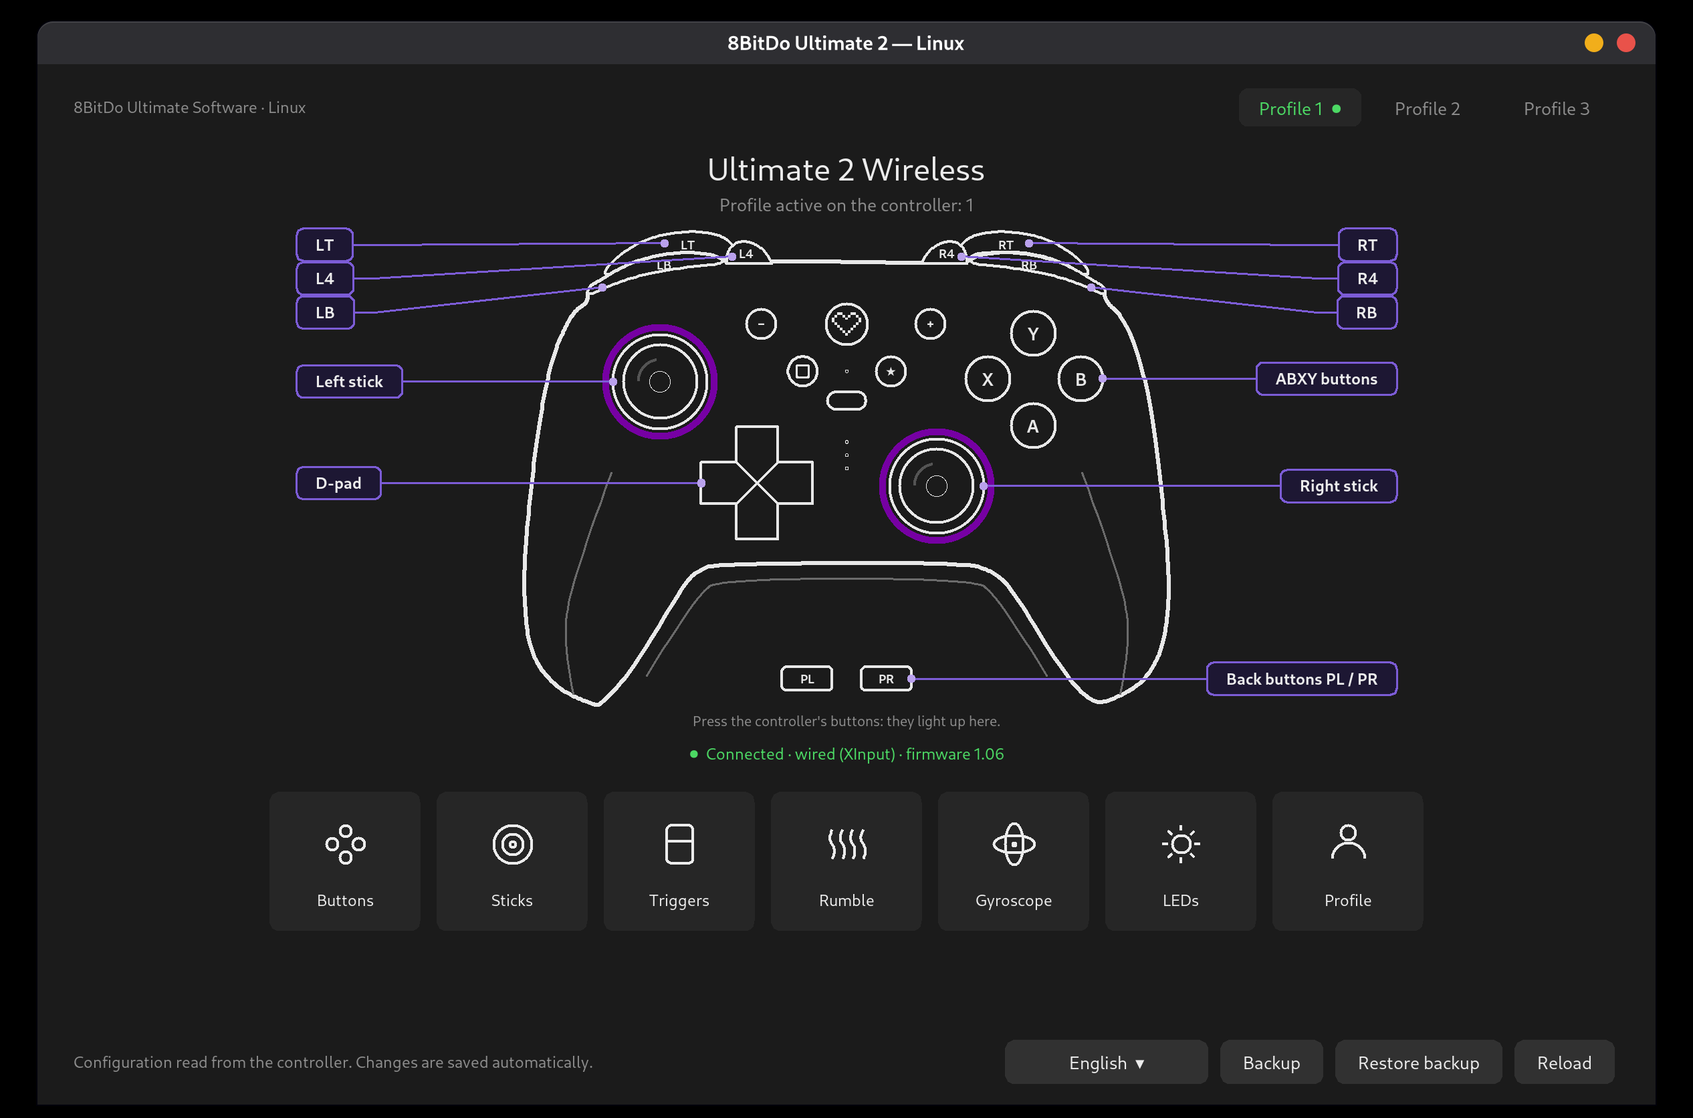
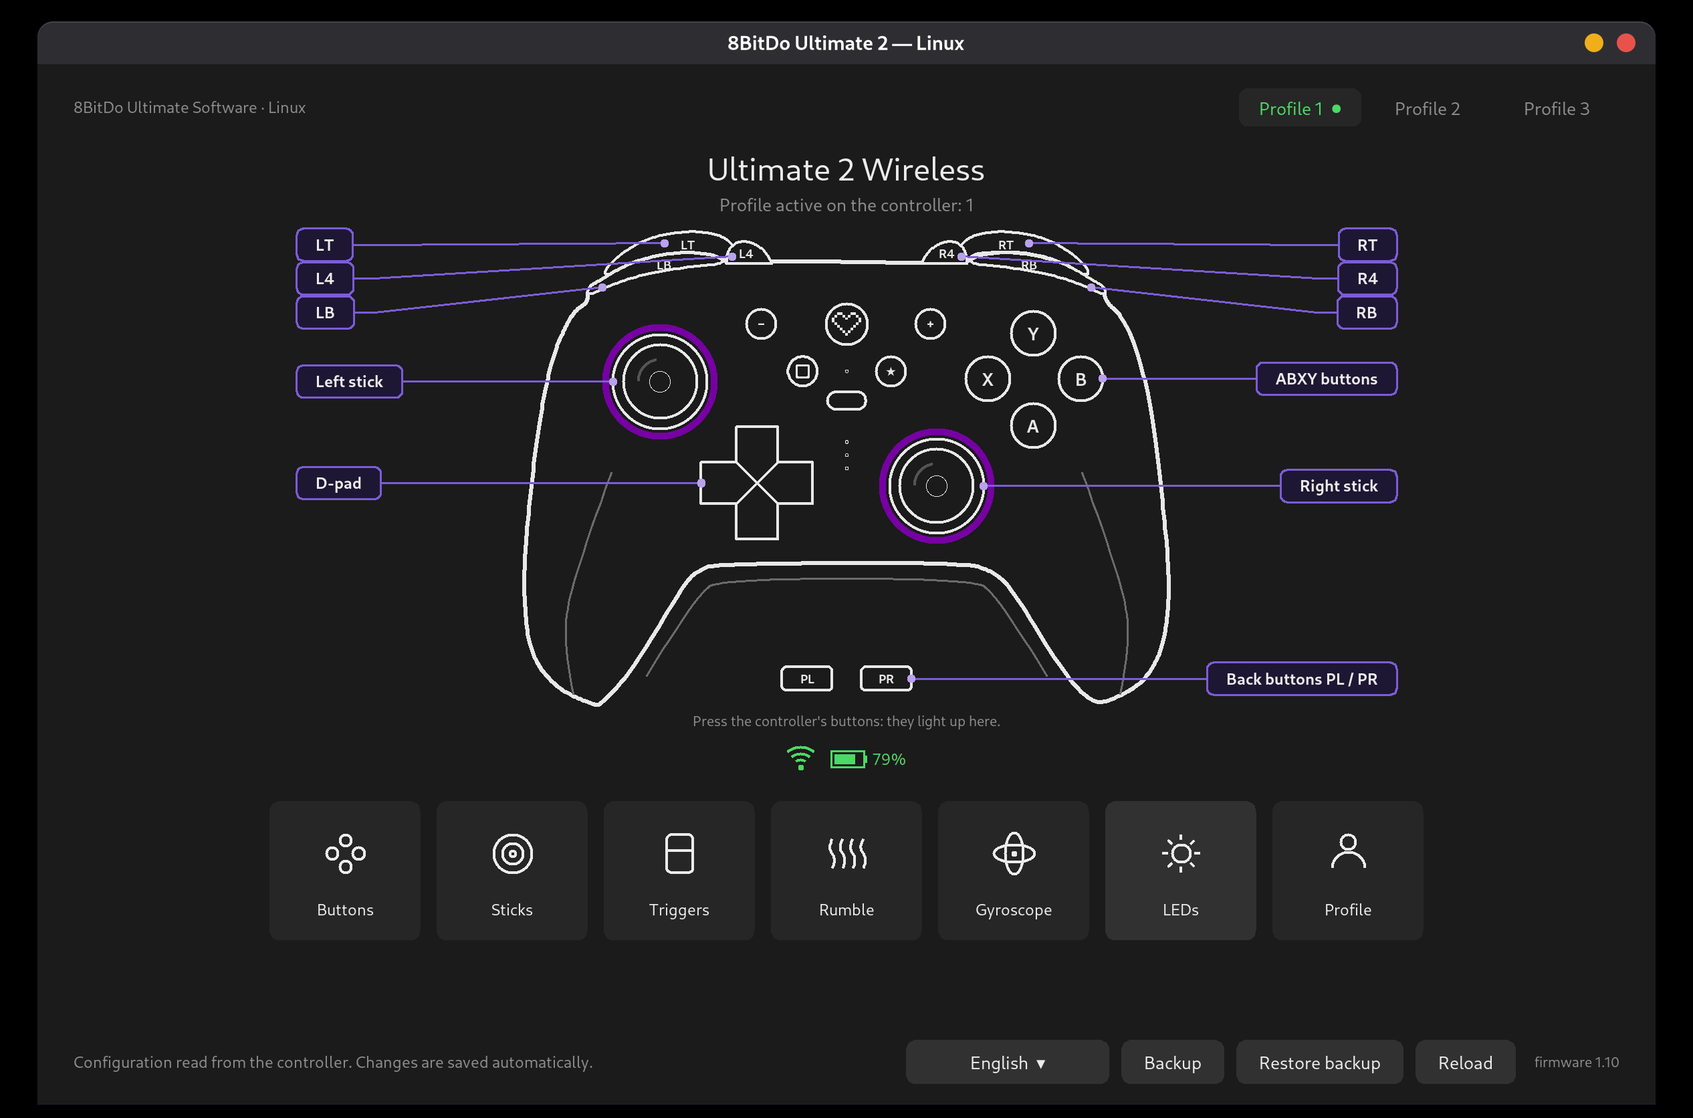
GUI: connection badge with Wi-Fi and battery; controller status through the dongle
Through the 2.4G dongle the app's getControllerVersion_CMD (81 04 21 01 .. 06)
answers for the controller itself: byte 18 battery %, 19-20 firmware, 23
colorway. The home screen shows a green Wi-Fi sign and the battery level (a
grey Wi-Fi with a red X when the controller does not answer); the firmware
number moved to the footer's bottom-right corner. Firmware and edition now come
from the controller rather than the dongle.

diff --git a/tests/gui/test_sync.py b/tests/gui/test_sync.py
@@ -6,7 +6,7 @@ import pytest
 from ultimate2 import config, device, discovery, protocol
 from ultimate2.gui import theme
 
-from .conftest import BACKUP, cfg_with, pump, slot_states
+from .conftest import BACKUP, badge, cfg_with, pump, slot_states
 
 
 def saved(a):
@@ -18,10 +18,22 @@ def test_set_status_and_connected(app):
     assert app.status.cget("fg") == theme.DANGER
     app.set_status("ok")
     assert app.status.cget("fg") == theme.MUTED
-    app.set_connected("hi")
-    assert app.pill.cget("text") == "●  hi"
-    app.set_connected(None)
-    assert "não encontrado" in app.pill.cget("text")
+    c = app.pill
+    arcs = lambda: {c.itemcget(i, "outline") for i in c.find_all() if c.type(i) == "arc"}
+    app.set_connected(("1.10", 80))
+    assert badge(app) == ("1.10", False) and arcs() == {theme.ACCENT}
+    assert c.itemcget(c.find_withtag("battery")[0], "text") == "80%"
+    fills = lambda: [c.itemcget(i, "fill") for i in c.find_all() if c.type(i) == "rectangle"]
+    app.set_connected(("1.10", 10))                          # low battery: red level
+    assert theme.DANGER in fills()
+    app.set_connected(("1.10", 0))                           # empty: outline and nub only
+    assert len(fills()) == 2
+    app.set_connected(("1.10", None))                        # battery unknown: Wi-Fi and firmware only
+    assert not c.find_withtag("battery") and badge(app) == ("1.10", False)
+    app.set_connected(None)                                  # not answering: grey Wi-Fi with a red X
+    assert badge(app) == (None, True) and arcs() == {theme.MUTED}
+    app.set_connected(False)                                 # still looking: grey, no X
+    assert badge(app) == (None, False)
 
 
 # ---------------------------------------------------------------- run
@@ -48,7 +60,7 @@ def test_run_no_device_systemexit(app, dlg, monkeypatch):
     app.run("lbl", lambda d: None, lambda r: pytest.fail("done"))
     pump(app)
     assert "no 8BitDo" in app.status.cget("text") and app.status.cget("fg") == theme.DANGER
-    assert "não encontrado" in app.pill.cget("text") and dlg.errors
+    assert badge(app) == (None, True) and dlg.errors
 
 
 def test_run_job_ioerror_with_device_and_empty_message(app, dlg):
@@ -68,7 +80,7 @@ def test_read_device_controller_off_is_not_an_error(app, dlg, monkeypatch):
     app.read_device()
     pump(app)
     assert not dlg.errors and "desligado" in app.status.cget("text") and app.status.cget("fg") != theme.DANGER
-    assert "não encontrado" in app.pill.cget("text") and app._retry_job
+    assert badge(app) == (None, True) and app._retry_job
     app.busy = True                                         # a retry while busy waits for the next turn
     job = app._retry_job
     app.read_device(True)
@@ -96,7 +108,7 @@ def test_read_device_unplugged_retries_and_permission_opens_dialog(app, dlg, mon
 def test_read_device(app):
     assert app.doc["gamepad_mode"] == 3 and app.active_slot == 3 and app.base == BACKUP
     assert "Windows (XInput)" in app.info_label.cget("text") and "/dev/hidraw-fake" in app.info_label.cget("text")
-    assert "wired (XInput)" in app.pill.cget("text") and "firmware 1.10" in app.pill.cget("text")
+    assert "wired (XInput)" in app.info_label.cget("text") and badge(app) == ("1.10", False)
     assert "salvas automaticamente" in app.status.cget("text")
     assert app.home_sub.cget("text") == "Perfil ativo no controle: padrão"
 
@@ -108,11 +120,27 @@ def test_read_device_unknown_mode_and_info_none(mk, monkeypatch, fake):
     monkeypatch.setattr(protocol, "PIDS", {})
     a = mk(bytes(cfg))
     assert "Modo: 7" in a.info_label.cget("text")
-    assert "firmware ?" in a.pill.cget("text") and hex(fake.usb_pid) in a.pill.cget("text")
+    assert badge(a) == ("?", False) and hex(fake.usb_pid) in a.info_label.cget("text")
 
 
 def test_read_device_loads_theme(app, fake):
     assert app.theme_dev == 2 and app.v["theme"].get() == 2
+
+
+def test_read_device_through_the_dongle_shows_battery(mk, fake, monkeypatch):
+    fake.firmware, fake.edition = 106, 0                     # the dongle's own firmware / colorway
+    fake.pad = {"battery": 86, "firmware": 110, "edition": 3}
+    a = mk(BACKUP)
+    assert a.conn == ("1.10", 86) and a.edition == 3
+    assert a.pill.itemcget(a.pill.find_withtag("battery")[0], "text") == "86%"
+    fake.pad["battery"] = 85                                 # the poll keeps the level up to date
+    a.poll()
+    pump(a)
+    assert a.conn == ("1.10", 85)
+    fake.pad = None                                          # controller switched off: keep the last level
+    a.poll()
+    pump(a)
+    assert a.conn == ("1.10", 85)
 
 
 def test_read_device_unknown_theme(mk, fake, monkeypatch):
@@ -291,20 +319,20 @@ def test_poll_error_is_silent_but_marks_disconnected(eapp, dlg, monkeypatch):
     eapp.poll()
     pump(eapp)
     assert not dlg.errors and eapp.status.cget("text") == "marker"
-    assert "não encontrado" in eapp.pill.cget("text")
+    assert badge(eapp) == (None, True)
 
 
 def test_poll_recovers_pill_after_transient_error(eapp):
-    assert eapp.conn_text and "Conectado" in eapp.conn_text
+    assert eapp.conn == ("1.10", None)
     eapp.set_connected(None)                     # e.g. controller was unplugged for a moment
     eapp.poll()
     pump(eapp)
-    assert eapp.pill.cget("text") == f"●  {eapp.conn_text}"
-    eapp.conn_text = None                        # never read successfully: nothing to restore
+    assert badge(eapp) == ("1.10", False)
+    eapp.conn = None                             # never read successfully: nothing to restore
     eapp.set_connected(None)
     eapp.poll()
     pump(eapp)
-    assert "não encontrado" in eapp.pill.cget("text")
+    assert badge(eapp) == (None, True)
 
 
 # ---------------------------------------------------------------- LED theme (cmd 0x40/0x41)

diff --git a/src/ultimate2/gui/sync.py b/src/ultimate2/gui/sync.py
@@ -15,8 +15,32 @@ class DeviceSync:
     def set_status(self, text, error=False):
         self.status.configure(text=text, fg=DANGER if error else MUTED)
 
-    def set_connected(self, text):
-        self.pill.configure(text=f"●  {text}" if text else "○  " + _("controle não encontrado"), fg=ACCENT if text else MUTED)
+    def set_connected(self, state):
+        """Connection badge (Wi-Fi and battery; the firmware goes to the footer's corner). ``state``: ``(firmware,
+        battery %)`` when connected (battery may be ``None``), ``None`` when the controller does not answer (grey Wi-Fi
+        with a red X), ``False`` while still looking (grey Wi-Fi)."""
+        c, s = self.pill, self.s
+        c.delete("all")
+        col, w = ACCENT if state else MUTED, max(1, round(2 * s))
+        x, y = 11 * s, 17 * s                                  # Wi-Fi: three arcs over a dot
+        for r in (5, 9.5, 14):
+            c.create_arc(x - r * s, y - r * s, x + r * s, y + r * s, start=50, extent=80, style="arc", outline=col, width=w)
+        c.create_oval(x - 2 * s, y - 2 * s, x + 2 * s, y + 2 * s, fill=col, outline="")
+        if state is None:                                      # red X over the bottom-right of the arcs
+            c.create_line(15 * s, 10 * s, 22 * s, 17 * s, fill=DANGER, width=w, capstyle="round")
+            c.create_line(15 * s, 17 * s, 22 * s, 10 * s, fill=DANGER, width=w, capstyle="round")
+        self.fw_label.configure(text=f"firmware {state[0]}" if state else "")
+        if state and state[1] is not None:                   # battery outline, fill to the level, then the %
+            battery, px, bw, bh, top = state[1], 32 * s, 22 * s, 11 * s, 6 * s
+            c.create_rectangle(px, top, px + bw, top + bh, outline=col, width=max(1, round(1.5 * s)))
+            c.create_rectangle(px + bw, top + 3 * s, px + bw + 2.5 * s, top + bh - 3 * s, fill=col, outline="")
+            level = min(max(battery, 0), 100) / 100
+            if level:
+                c.create_rectangle(px + 2 * s, top + 2 * s, px + 2 * s + (bw - 4 * s) * level, top + bh - 2 * s,
+                                   fill=DANGER if battery <= 15 else col, outline="")
+            c.create_text(px + bw + 6 * s, 11.5 * s, text=f"{battery}%", anchor="w", fill=col, font=theme.font(9),
+                          tags="battery")
+        c.configure(width=c.bbox("all")[2] + 2)
 
     # ------------------------------------------------------------ worker
     def run(self, label, job, done, quiet=False, fail=None):
@@ -95,13 +119,18 @@ class DeviceSync:
     def poll(self):
         """Follow the controller's active profile (the user switches it with the profile button)."""
         if self.doc is not None and not self.busy and self._save_job is None:
-            def done(slot):
-                if slot is not None and self.conn_text:
-                    self.set_connected(self.conn_text)     # recover the pill after a transient error
+            wireless = bool(self.conn and self.conn[1] is not None)    # battery only exists through the dongle
+
+            def done(r):
+                slot, pad = r
+                if pad:
+                    self.conn = (self.conn[0], pad["battery"])
+                if slot is not None and self.conn:
+                    self.set_connected(self.conn)          # recover the badge after a transient error
                 if slot is not None and slot != self.active_slot:
                     self.active_slot = slot
                     self.refresh_slots()
-            self.run("", lambda dev: dev.current_slot(), done, quiet=True)
+            self.run("", lambda dev: (dev.current_slot(), dev.pad_status() if wireless else None), done, quiet=True)
         self.after(theme.POLL_MS, self.poll)
 
     def apply_theme(self):
@@ -141,10 +170,12 @@ class DeviceSync:
             self._retry_job = self.after(theme.RETRY_MS, lambda: self.read_device(True))
 
         def job(dev):
-            return dev.path, dev.pid, dev.info(), dev.read_config(), dev.get_theme(), dev.edition()
+            return dev.path, dev.pid, dev.info(), dev.read_config(), dev.get_theme(), dev.edition(), dev.pad_status()
 
         def done(r):
-            path, pid, info, cfg, led_theme, edition = r
+            path, pid, info, cfg, led_theme, edition, pad = r
+            if pad:                         # through the dongle, info() is the dongle's: use the controller's own
+                edition, info = pad["edition"], pad
             self.edition = edition
             want = self.skin_pref if self.skin_pref in SKINS else EDITION_SKINS.get(edition, DEFAULT_SKIN)
             if want != self.skin:
@@ -155,11 +186,12 @@ class DeviceSync:
             self.doc = config.decode(cfg)
             self.active_slot = self.doc["cur_slot"]
             fw = f"{info['firmware'] / 100:.2f}" if info else "?"
-            self.conn_text = _("Conectado · {} · firmware {}").format(protocol.PIDS.get(pid, hex(pid)), fw)
-            self.set_connected(self.conn_text)
+            self.conn = (fw, pad and pad["battery"])
+            self.set_connected(self.conn)
             modes = {0: "Switch", 1: "Android", 3: "Windows (XInput)"}
+            mode = modes.get(self.doc["gamepad_mode"], self.doc["gamepad_mode"])
             self.info_label.configure(text=_("Dispositivo: {}\nModo: {}\nEdição: {} ({})").format(
-                path, modes.get(self.doc["gamepad_mode"], self.doc["gamepad_mode"]), edition, _(SKINS[self.skin]["name"])))
+                f"{path} · {protocol.PIDS.get(pid, hex(pid))}", mode, edition, _(SKINS[self.skin]["name"])))
             self.load()
             self.refresh_slots()
             self.set_status(_("Configuração lida do controle. As mudanças são salvas automaticamente."))

diff --git a/tests/gui/test_i18n.py b/tests/gui/test_i18n.py
@@ -158,7 +158,6 @@ def test_app_in_english_shows_english_texts(monkeypatch):
     try:
         labels = {w.text for w in walk(a) if isinstance(w, widgets.Pill)}
         assert {"Reload", "Restore backup", "Backup", "‹  Home", "Profile 1", "Profile 2", "Edit the active profile"} <= labels
-        assert a.pill.cget("text") == "looking for the controller…"
         tiles = [t for w in walk(a.pages["home"]) if w.winfo_class() == "Canvas" for t in texts(w)]
         assert {"Buttons", "Sticks", "Triggers", "Gyroscope", "Profile"} <= set(tiles)
         assert {"Left stick", "ABXY buttons", "D-pad"} <= set(texts(a.home_canvas))
@@ -174,10 +173,11 @@ def test_app_in_english_shows_english_texts(monkeypatch):
 def test_footer_selector_left_of_backup_switches_language(app, settings_file, monkeypatch):
     foot = app.status.master
     order = [getattr(w, "text", None) for w in foot.pack_slaves()]
-    assert order[:4] == ["Recarregar", "Restaurar backup", "Backup", "Português (Brasil)  ▾"]   # packed right to left
+    assert foot.pack_slaves()[0] is app.fw_label                            # firmware in the corner, rightmost
+    assert order[1:5] == ["Recarregar", "Restaurar backup", "Backup", "Português (Brasil)  ▾"]   # packed right to left
     destroyed = []
     monkeypatch.setattr(app, "destroy", lambda: destroyed.append(1))
-    foot.pack_slaves()[3].menu.invoke(1)
+    foot.pack_slaves()[4].menu.invoke(1)
     app.update()
     assert destroyed == [1] and app.restart is True and app_mod.load_settings() == {"lang": "en"}
     app.restart = False

diff --git a/src/ultimate2/device.py b/src/ultimate2/device.py
@@ -7,8 +7,8 @@ import time
 
 from . import discovery
 from .protocol import (CFG_SIZE, CHUNK, CMD_COMMIT, CMD_GET_THEME, CMD_READ, CMD_REPORT, CMD_SET_THEME,
-                       CMD_WRITE, COMMIT_KEY, QUERY_VERSION, ANSWER_VERSION, REPORT_SIZE, build_request, parse_info,
-                       parse_reply)
+                       CMD_WRITE, COMMIT_KEY, QUERY_VERSION, ANSWER_VERSION, QUERY_PAD, ANSWER_PAD, REPORT_SIZE,
+                       build_request, parse_info, parse_reply)
 
 RETRIES = 30             # the app's retry count per chunk
 
@@ -88,6 +88,12 @@ class Device:
         """Colorway of the controller (the app's ``m_ControllerColor``), or ``None``."""
         r = self.query(QUERY_VERSION, want=ANSWER_VERSION)
         return r[6] if r else None
+
+    def pad_status(self):
+        """Through the dongle: ``{"battery", "firmware", "edition"}`` of the controller itself, or ``None`` (wired,
+        or the controller does not answer). The app reads firmware and colour here; byte 18 is the battery %."""
+        r = self.query(QUERY_PAD, want=ANSWER_PAD, timeout=.25)      # wired: nobody answers, keep it short
+        return {"battery": r[18], "firmware": r[19] | r[20] << 8, "edition": r[23]} if r else None
 
     def report(self, on):
         """Turn the controller's input reports off/on around config writes (like the app)."""

diff --git a/tests/fake_device.py b/tests/fake_device.py
@@ -20,6 +20,7 @@ class FakeController:
         self.log = []              # (cmd, sub, length, offset) of every framed request
         self.theme = 2
         self.edition = 3
+        self.pad = None            # through the dongle: {"battery", "firmware", "edition"} of the controller
         self.host, self._dev = socket.socketpair(socket.AF_UNIX, socket.SOCK_SEQPACKET)
         self._t = threading.Thread(target=self._serve, daemon=True)
         self._t.start()
@@ -61,6 +62,12 @@ class FakeController:
             if pkt[:5] == b"\x81\x05\x00\x21\x01":       # version / colorway query
                 self._dev.send(bytes([0x02, 0x22, self.firmware & 0xFF, self.firmware >> 8, self.beta, 0,
                                       self.edition]).ljust(64, b"\0"))
+                continue
+            if pkt[:7] == u.QUERY_PAD:                   # controller behind the dongle (silent when wired)
+                if self.pad:
+                    p = self.pad
+                    self._dev.send((u.ANSWER_PAD + bytes(12) + bytes([p["battery"], p["firmware"] & 0xFF,
+                                    p["firmware"] >> 8, 0, 0, p["edition"]])).ljust(64, b"\0"))
                 continue
             if pkt[:2] != b"\x81\x04" or len(pkt) < 18:
                 continue

diff --git a/src/ultimate2/gui/i18n.py b/src/ultimate2/gui/i18n.py
@@ -55,7 +55,6 @@ EN = {
     "Controle": "Controller",
     "Idioma da interface": "Interface language",
     "no perfil padrão (sem perfil custom)": "on the default profile (no custom profile)",
-    "procurando controle…": "looking for the controller…",
     "Analógico esquerdo": "Left stick",
     "Analógico direito": "Right stick",
     "Zona morta interna": "Inner dead zone",
@@ -99,9 +98,7 @@ EN = {
     "Substituir toda a configuração do controle por este backup?": "Replace the controller's whole configuration with this backup?",
     "Backup restaurado e verificado.": "Backup restored and verified.",
     "verificação falhou: o controle não guardou o que foi enviado": "verification failed: the controller did not keep what was sent",
-    "Conectado · {} · firmware {}": "Connected · {} · firmware {}",
     "verificação falhou": "verification failed",
-    "controle não encontrado": "controller not found",
     "✓ Salvo no controle ({} bytes).": "✓ Saved to the controller ({} bytes).",
     "✓ Tema de LED aplicado: {}.": "✓ LED theme applied: {}.",
     "Arquivo inválido ({} bytes, esperado {}).": "Invalid file ({} bytes, expected {}).",

diff --git a/src/ultimate2/gui/app.py b/src/ultimate2/gui/app.py
@@ -75,7 +75,7 @@ class App(Pages, ControllerView, Editor, DeviceSync, PadInput, tk.Tk):
         self.press_t = {}        # button -> time of the last press (ripple animation)
         self._remapped = set()
         self._closing = False
-        self.conn_text = None    # pill text of the last successful read
+        self.conn = None         # connection badge state of the last successful read
         self._style()
         self._vars()
         self._build()
@@ -160,6 +160,8 @@ class App(Pages, ControllerView, Editor, DeviceSync, PadInput, tk.Tk):
 
         foot = tk.Frame(self, bg=BG)
         foot.pack(side="bottom", fill="x", padx=int(24 * s), pady=int(14 * s))
+        self.fw_label = tk.Label(foot, text="", bg=BG, fg=MUTED, font=theme.font(8))      # bottom-right corner
+        self.fw_label.pack(side="right", padx=(int(8 * s), 0))
         for text, cmd in ((_("Recarregar"), self.read_device), (_("Restaurar backup"), self.restore), (_("Backup"), self.backup)):
             self.button(foot, text, cmd).pack(side="right", padx=int(4 * s))
         self.lang_pick = tk.StringVar(value=i18n.LANG)                 # language selector, left of Backup

diff --git a/src/ultimate2/cli.py b/src/ultimate2/cli.py
@@ -49,6 +49,9 @@ def main(argv=None):
         print(f"firmware    {i['firmware'] / 100:.2f}" + (f" beta {i['beta']}" if i["beta"] else ""))
         print(f"report pid  0x{i['device_pid']:04x} ({PIDS.get(i['device_pid'], '?')})")
         print(f"mode/slot   gamepad_mode={mode} cur_slot={slot}")
+        pad = dev.pad_status()
+        if pad:                                    # 2.4G: the controller behind the dongle
+            print(f"controller  firmware {pad['firmware'] / 100:.2f}, battery {pad['battery']}%, colorway {pad['edition']}")
     elif a.cmd == "dump":
         text = json.dumps(config.decode(dev.read_config()), indent=2, ensure_ascii=False)
         if a.output:

diff --git a/src/ultimate2/gui/pages.py b/src/ultimate2/gui/pages.py
@@ -87,8 +87,9 @@ class Pages:
         self.home_items = self.draw_controller(self.home_canvas, "home", ox=HOME_OFFSET)
         tk.Label(page, text=_("Aperte os botões do controle: eles acendem aqui."), bg=BG, fg=MUTED,
                  font=theme.font(8)).pack()
-        self.pill = tk.Label(page, text=_("procurando controle…"), bg=BG, fg=MUTED, font=theme.font(9))
+        self.pill = tk.Canvas(page, height=int(22 * s), bg=BG, highlightthickness=0)      # connection badge
         self.pill.pack(pady=int(8 * s))
+        self.set_connected(False)
         tiles = tk.Frame(page, bg=BG)
         tiles.pack(pady=int(10 * s))
         for title, key in SECTIONS:

diff --git a/tests/gui/conftest.py b/tests/gui/conftest.py
@@ -26,6 +26,13 @@ def cfg_with(slot=0, edit=None, mode=None, name="Perfil X"):
     return config.encode(doc, BACKUP)[0]
 
 
+def badge(app):
+    """Connection badge as ``(firmware text or None, red X shown)``."""
+    c, fw = app.pill, app.fw_label.cget("text")             # firmware sits in the footer's corner
+    x = [i for i in c.find_all() if c.type(i) == "line" and c.itemcget(i, "fill") == theme.DANGER]
+    return (fw.split()[-1] if fw else None), bool(x)
+
+
 def pump(app, cond=None, timeout=5.0):
     """Run the Tk event loop until cond() (default: worker finished and its after-callbacks ran)."""
     cond = cond or (lambda: not app.busy)

diff --git a/tests/test_cli.py b/tests/test_cli.py
@@ -38,6 +38,13 @@ def test_info(fake, monkeypatch, capsys):
     out = capsys.readouterr().out
     assert "firmware    1.10\n" in out and "beta" not in out
     assert "report pid  0x6012 (Ultimate 2)" in out and "gamepad_mode=" in out
+    assert "controller" not in out                           # wired: nothing behind a dongle
+
+
+def test_info_through_the_dongle(fake, monkeypatch, capsys):
+    fake.pad = {"battery": 86, "firmware": 110, "edition": 3}
+    run(monkeypatch, "info")
+    assert "controller  firmware 1.10, battery 86%, colorway 3\n" in capsys.readouterr().out
 
 
 def test_info_beta(fake, monkeypatch, capsys):

diff --git a/tests/gui/test_app.py b/tests/gui/test_app.py
@@ -3,7 +3,7 @@ import tkinter as tk
 
 from ultimate2.gui import app as app_mod, theme
 
-from .conftest import make_app, pump
+from .conftest import badge, make_app, pump
 
 
 def test_family_resolution(monkeypatch):
@@ -21,7 +21,7 @@ def test_startup_timer_fires_read_and_pad_thread(fake, monkeypatch):
     a.tk.willdispatch()
     try:
         pump(a, lambda: a.doc is not None and not a.busy)
-        assert "Conectado" in a.pill.cget("text") and a.active_slot == 0xFFFF   # blank config
+        assert badge(a)[0] and a.active_slot == 0xFFFF       # blank config
     finally:
         a.destroy()
     assert a._closing
